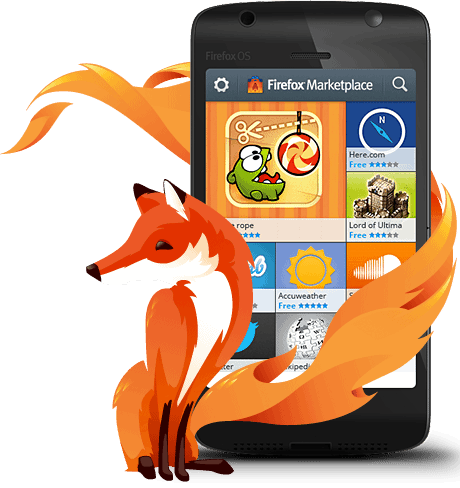
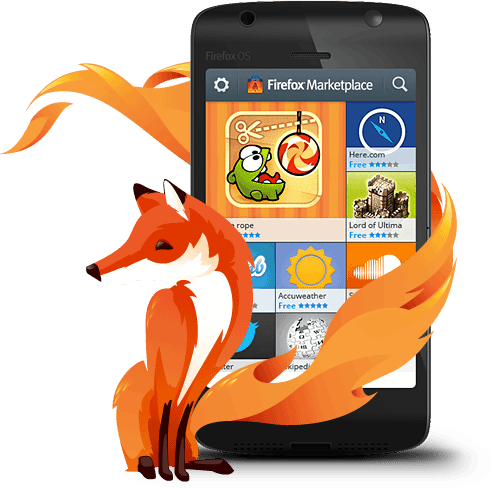
fix cut off shadow on marketplace firefox hero image

diff --git a/media/css/marketplace.less b/media/css/marketplace.less
@@ -129,10 +129,10 @@
 
 #apps-hero-background {
     position: absolute;
-    width: 460px;
+    width: 488px;
     height: 488px;
     bottom: 120px;
-    right: 20px;
+    right: 0;
     background: url(/media/img/marketplace/apps-firefox-hero.png) 0 100% no-repeat;
 }
 
